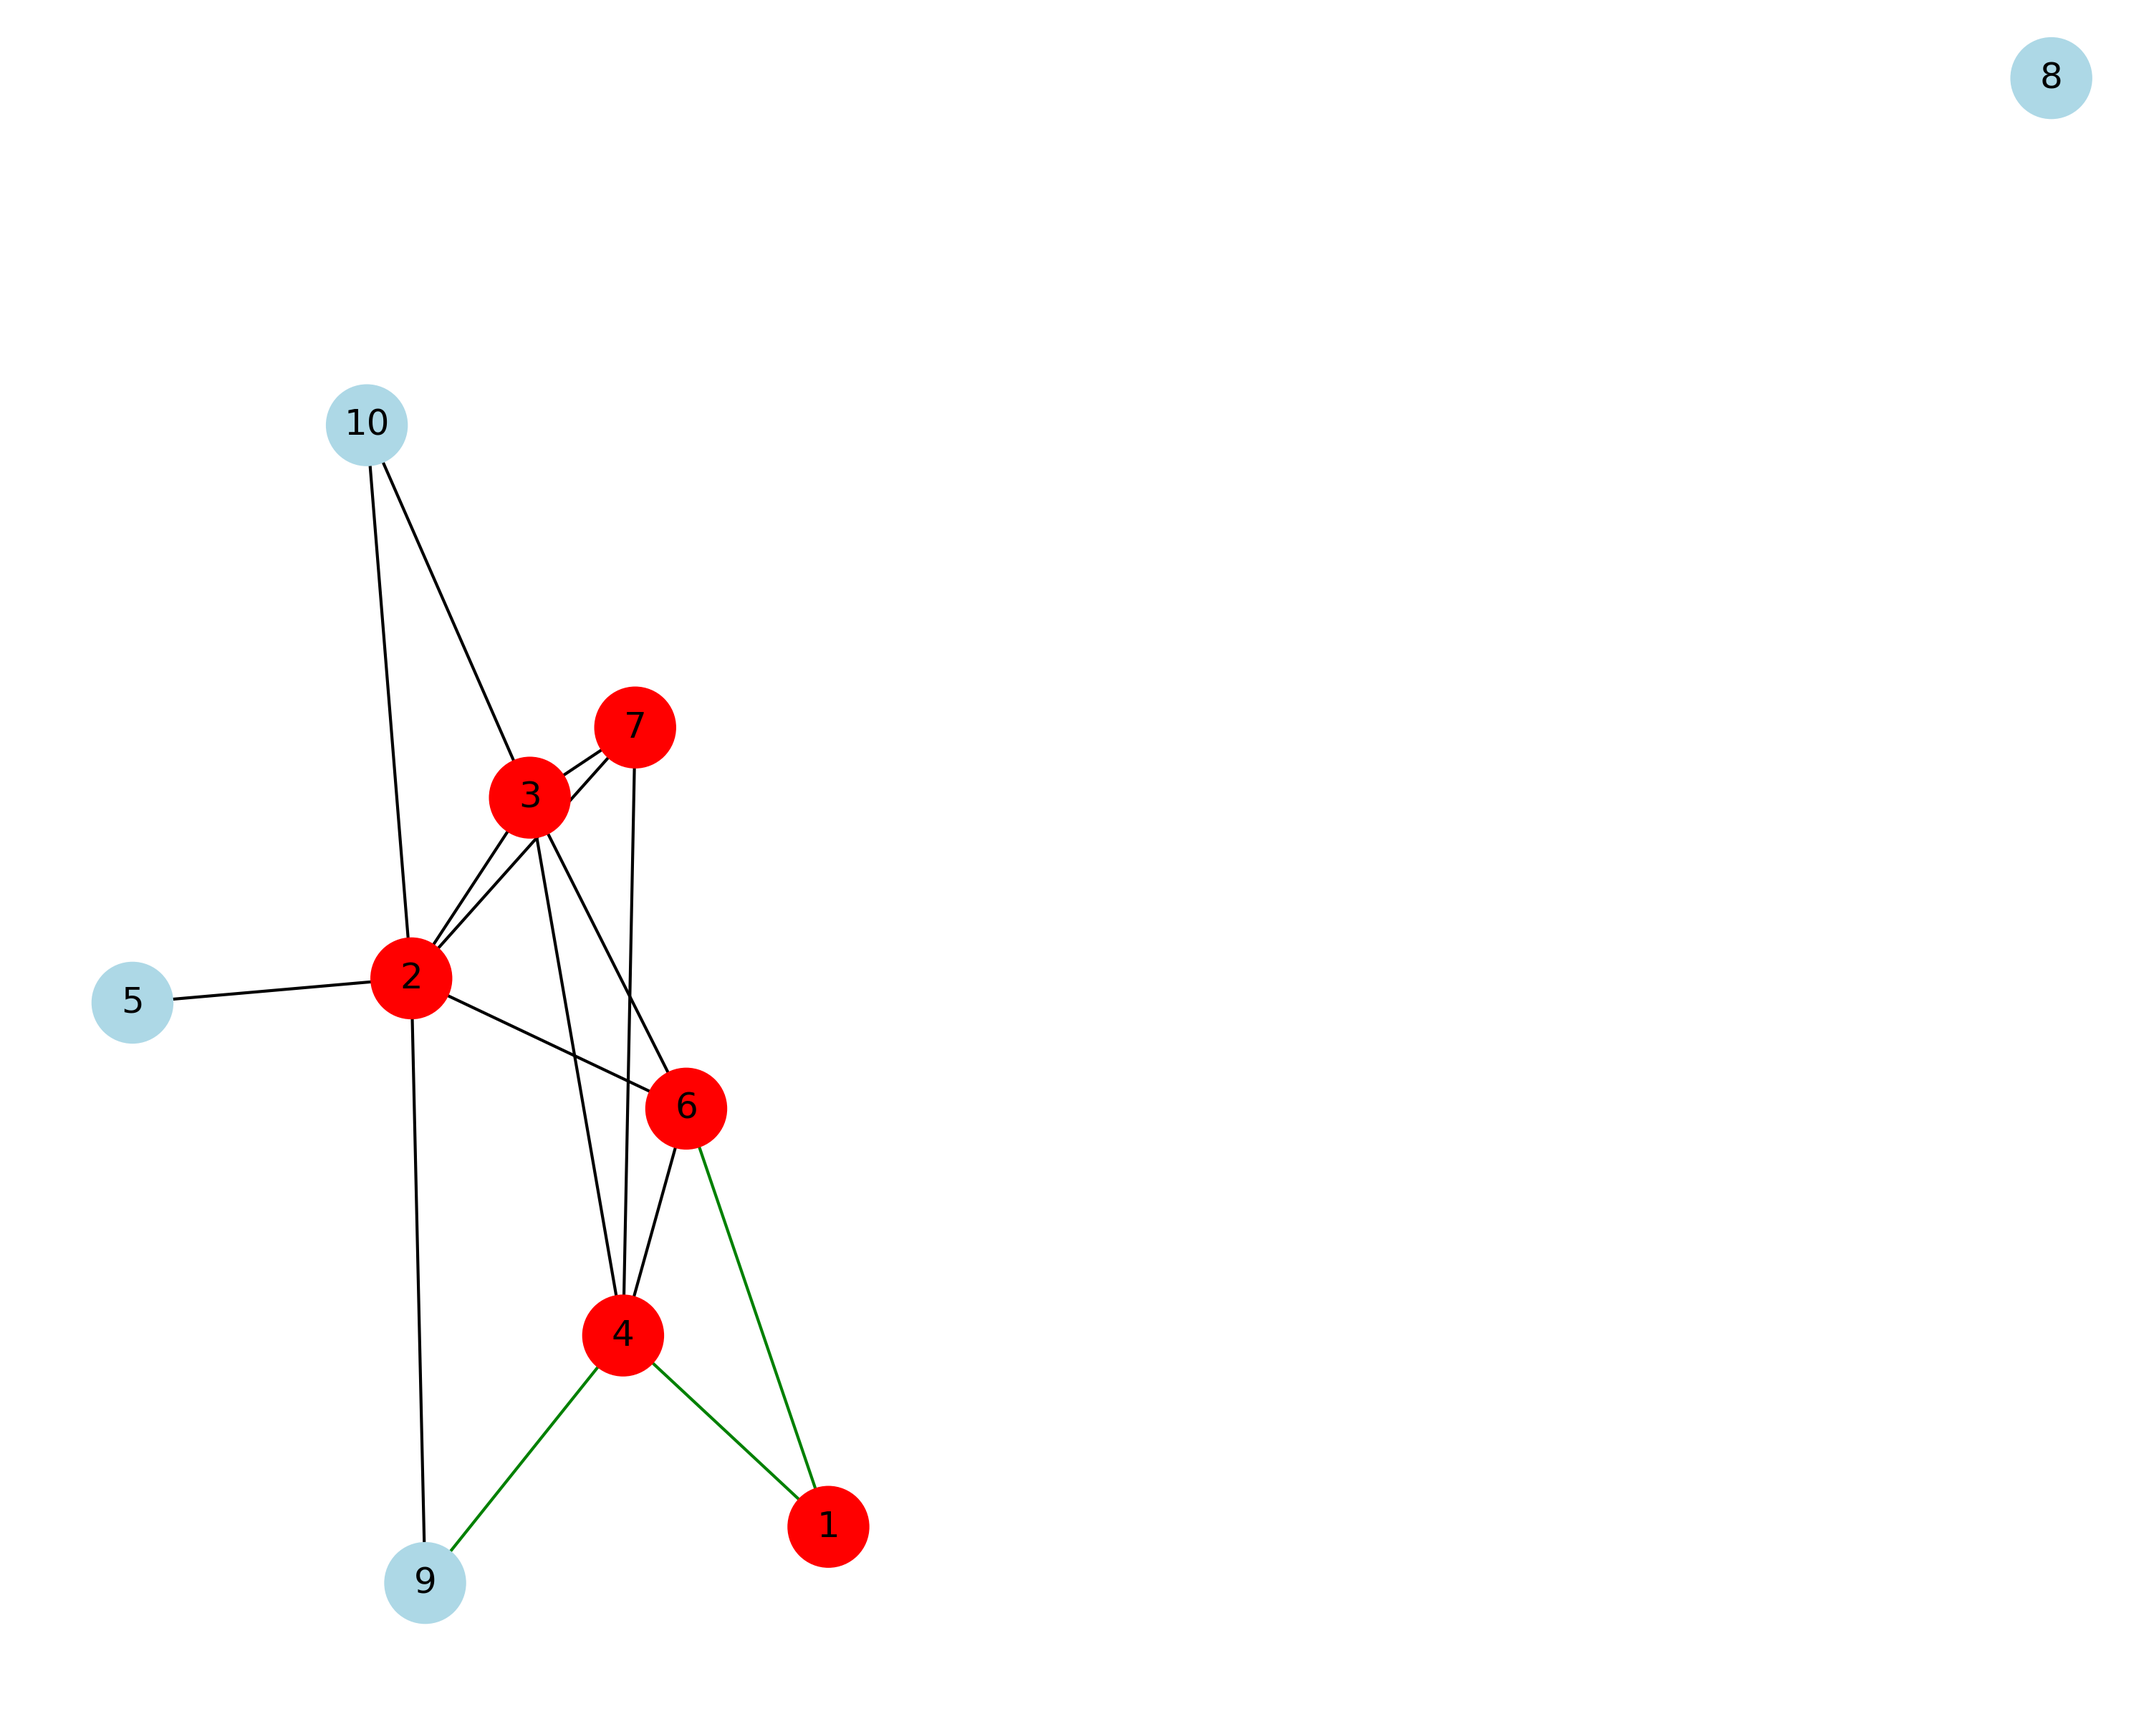
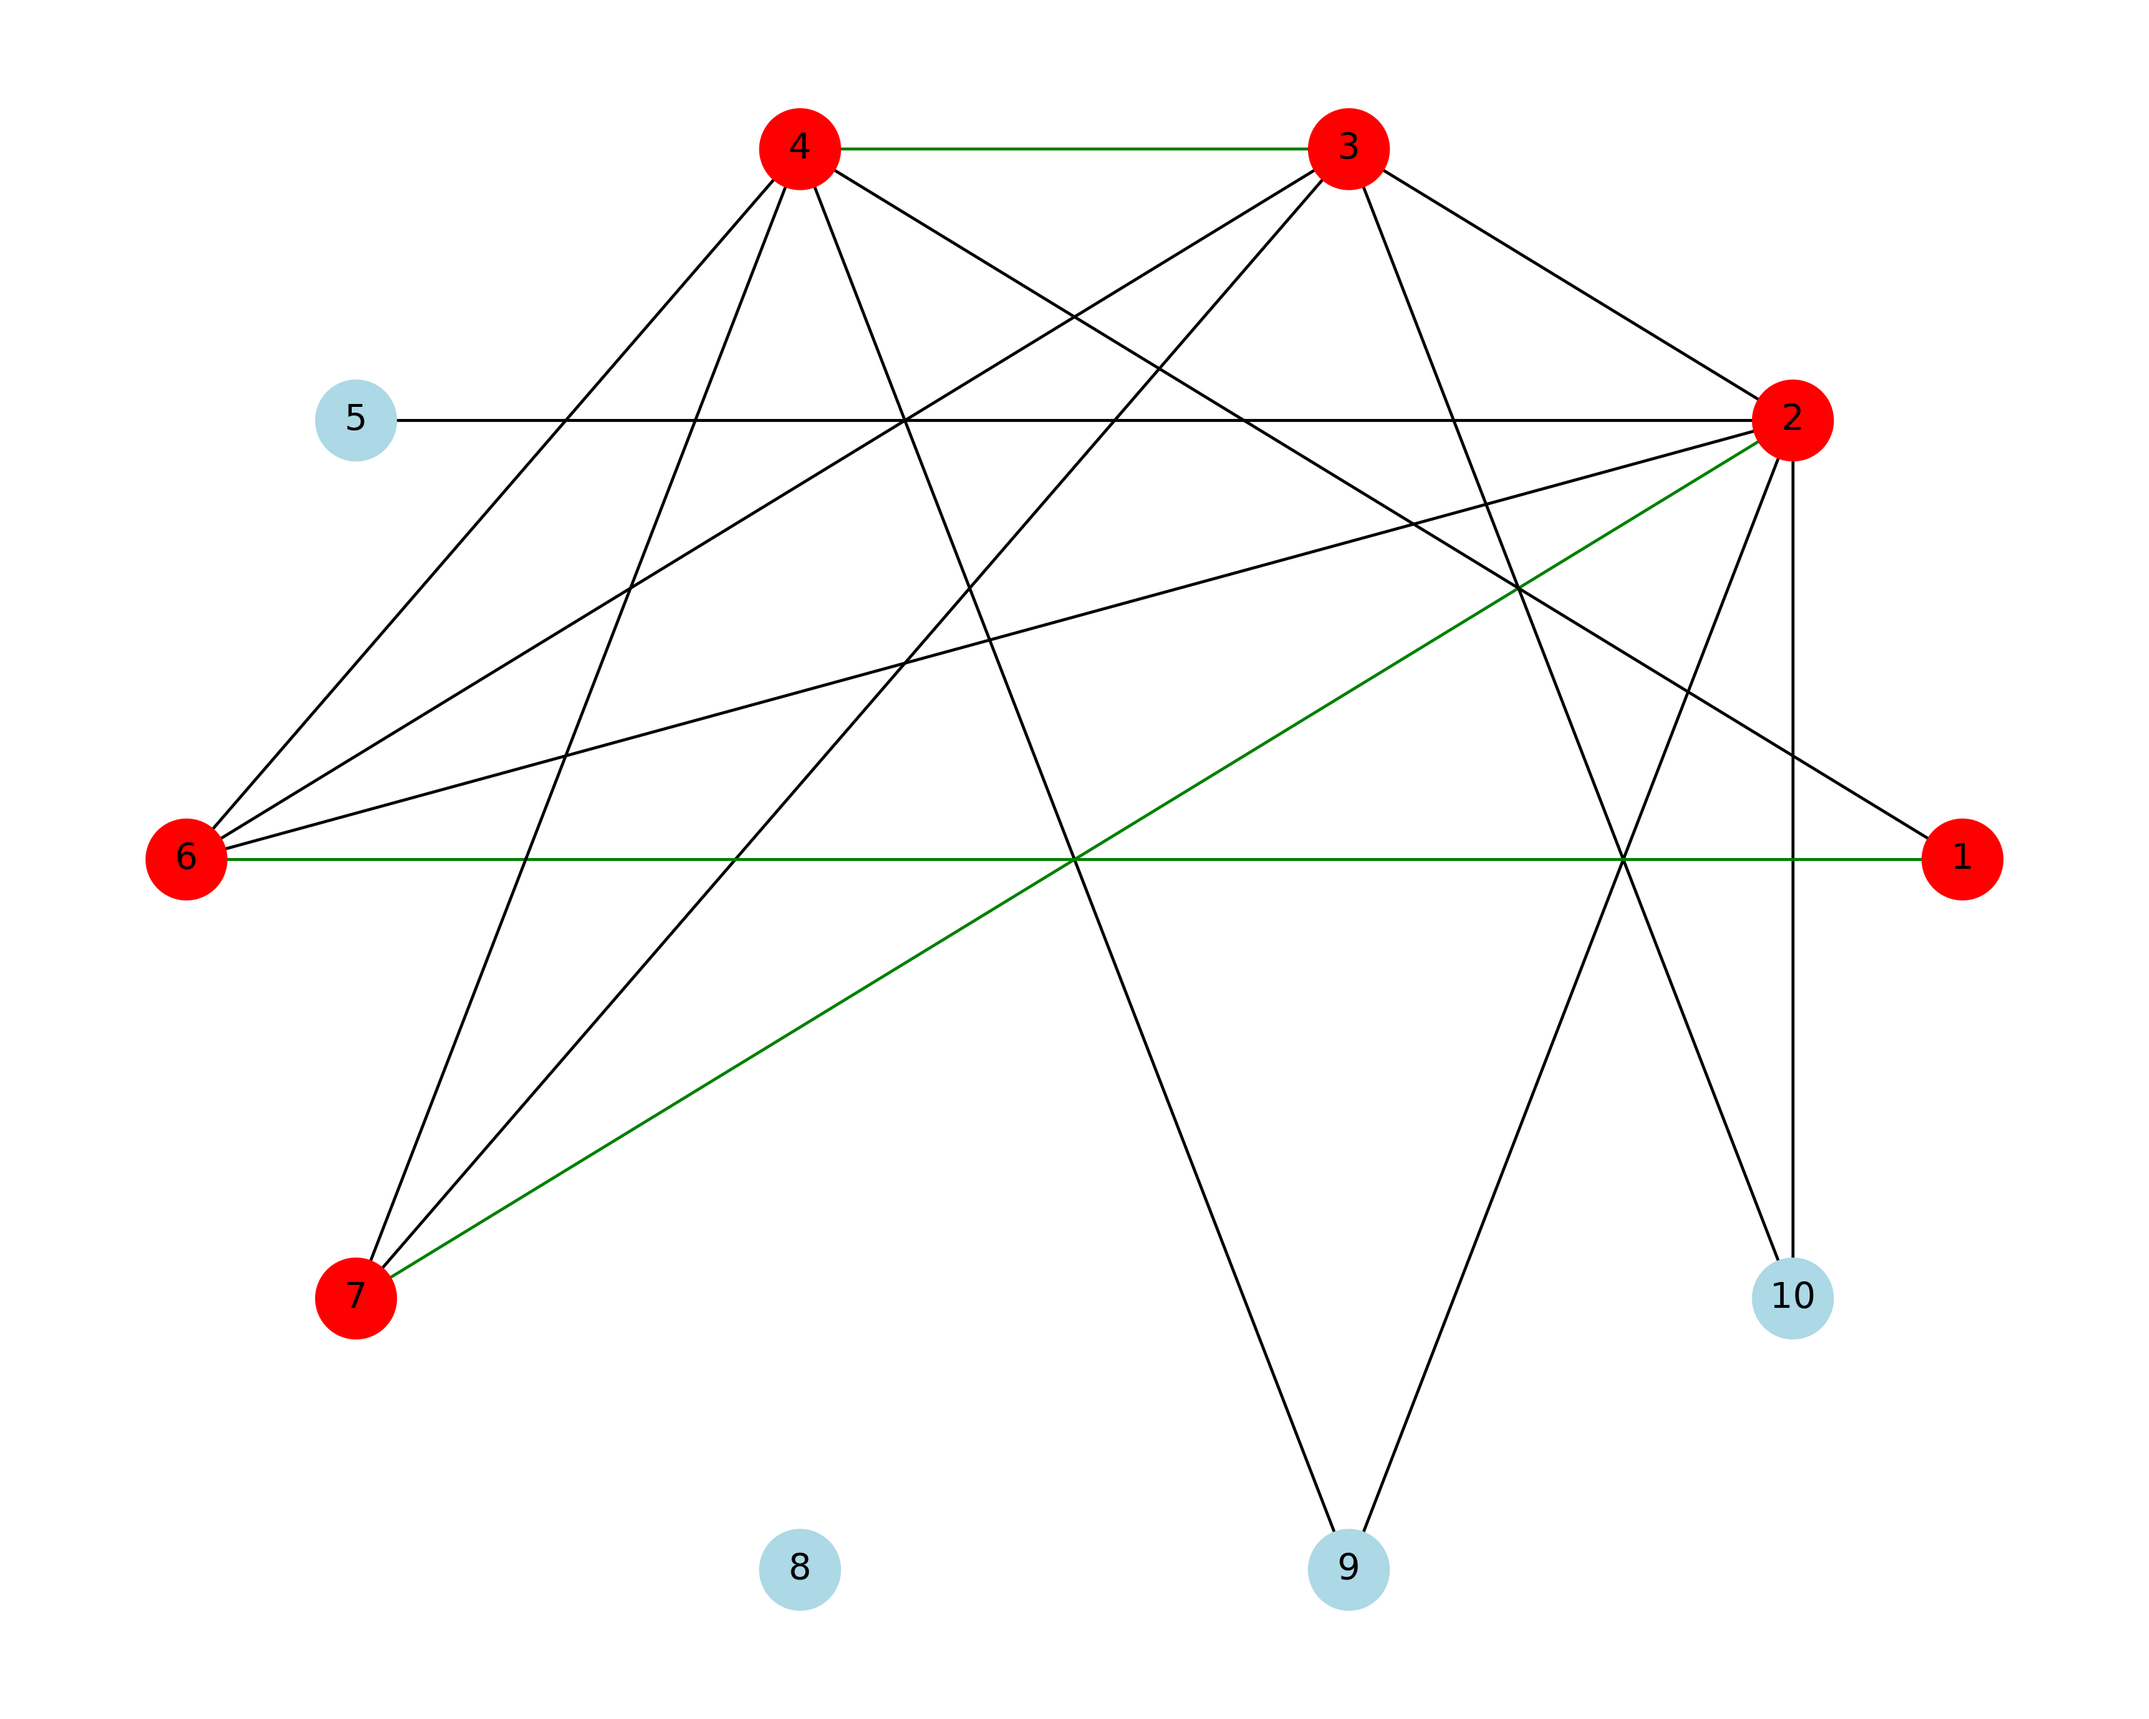
output fixed

diff --git a/Practical_2/approximation_vc.py b/Practical_2/approximation_vc.py
@@ -1,7 +1,6 @@
 import os
 import networkx as nx
 import matplotlib.pyplot as plt
-from matplotlib.lines import Line2D
 import time
 import csv
 
@@ -9,12 +8,14 @@ def approximation_algo(edges):
     match = []
     vc = []
 
-    for u,v in edges:
+    for u, v in edges:
         if u not in vc and v not in vc:
+            match.append((u, v))
             vc.append(u)
             vc.append(v)
-            match.append((u,v))
+
     return vc, match
+
 
 def approximation_factor(vc, opt_size):
     return round(len(vc) / opt_size,3)
@@ -63,15 +64,11 @@ def create_graph(match, vc, n, m, i, edges):
             edge_color.append('green')
         else:
             edge_color.append('black')
-    
+
     plt.figure(figsize=(10, 8))
-    nx.draw(G, with_labels=True, node_color=node_color, edge_color=edge_color, node_size=700)
-
-    plt.title(
-        f"Graph {i} | n={n}, m={m}\n"
-        f"Vertex Cover = {vc} | Matching Size = {len(match)}"
-    )
-
+    pos = nx.circular_layout(G)
+    nx.draw(G, pos, with_labels=True, node_color=node_color, edge_color=edge_color, edgelist = edges, node_size=700)
+    
     output_file = os.path.join('output', f"graph_{i}.png")
     plt.savefig(output_file,dpi=300)
     plt.close()
@@ -83,14 +80,13 @@ def main():
     with open('result.csv', 'r', newline='') as f:
         rows = list(csv.reader(f))
     
-    if 'Vertex Cover' in rows[0]:
-        for row in rows:
-            del row[1]
+    # if 'Vertex Cover' in rows[0]:
+    #     for row in rows:
+    #         del row[1]            just to delete existing vc from csv
 
     
-    if 'Approximation_size' not in rows[0]:
+    if 'vc_size(approx.)' not in rows[0]:
         rows[0].extend(['vc_size(approx.)', 'Match_size', 'Execution_Time', 'Approximation_Factor'])
-    
         for row in rows[1:]:
                 row.extend(['', '', '', ''])
 
